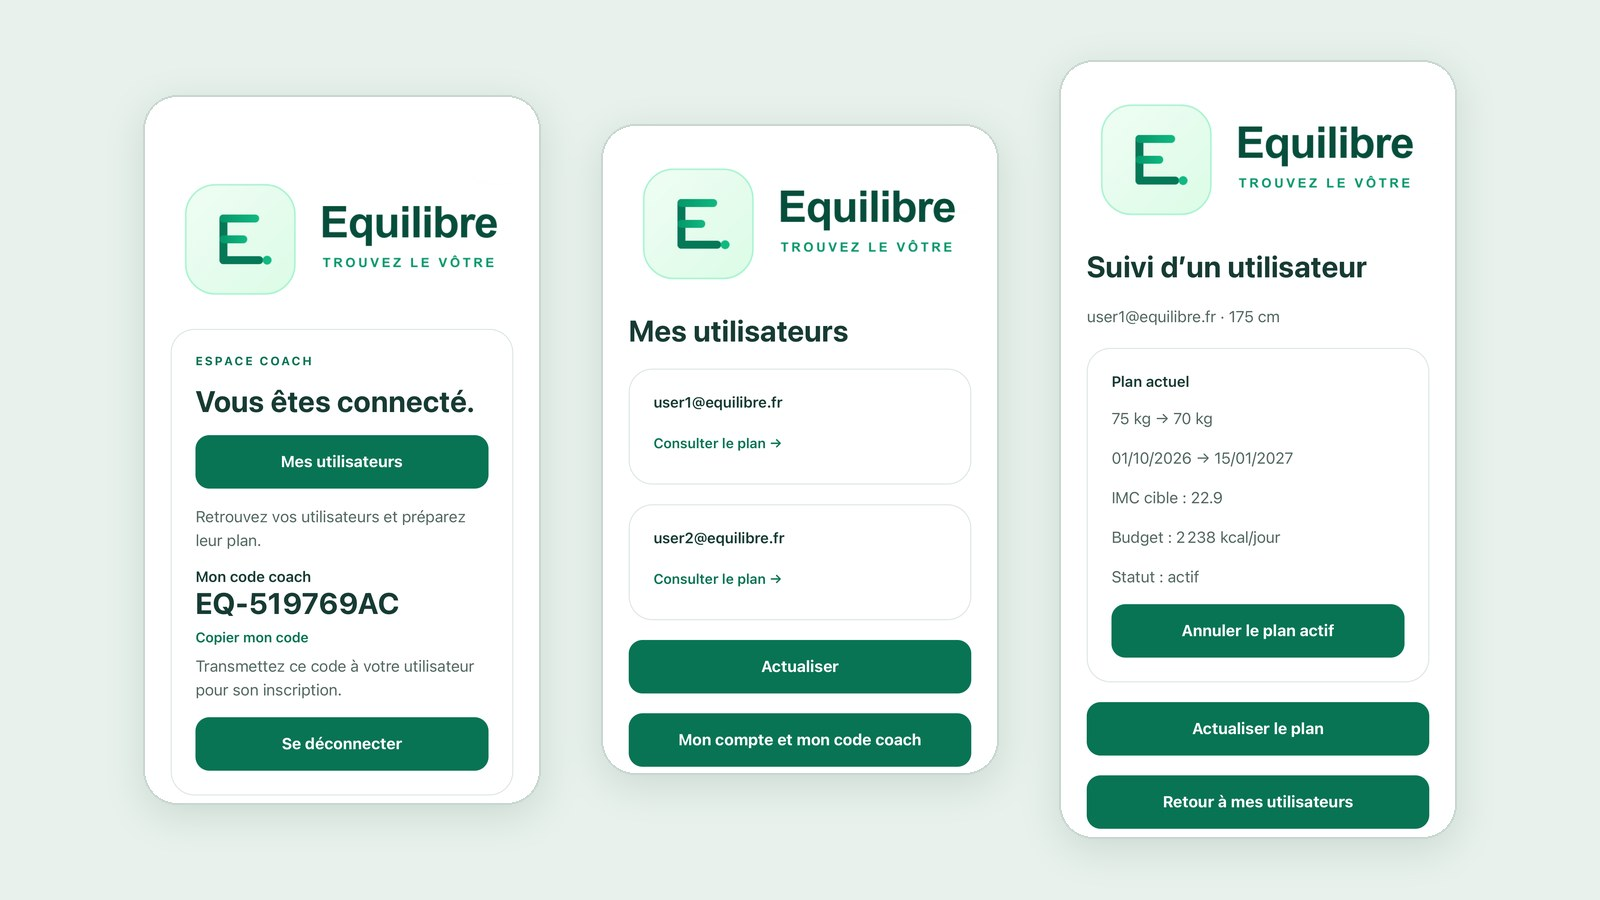
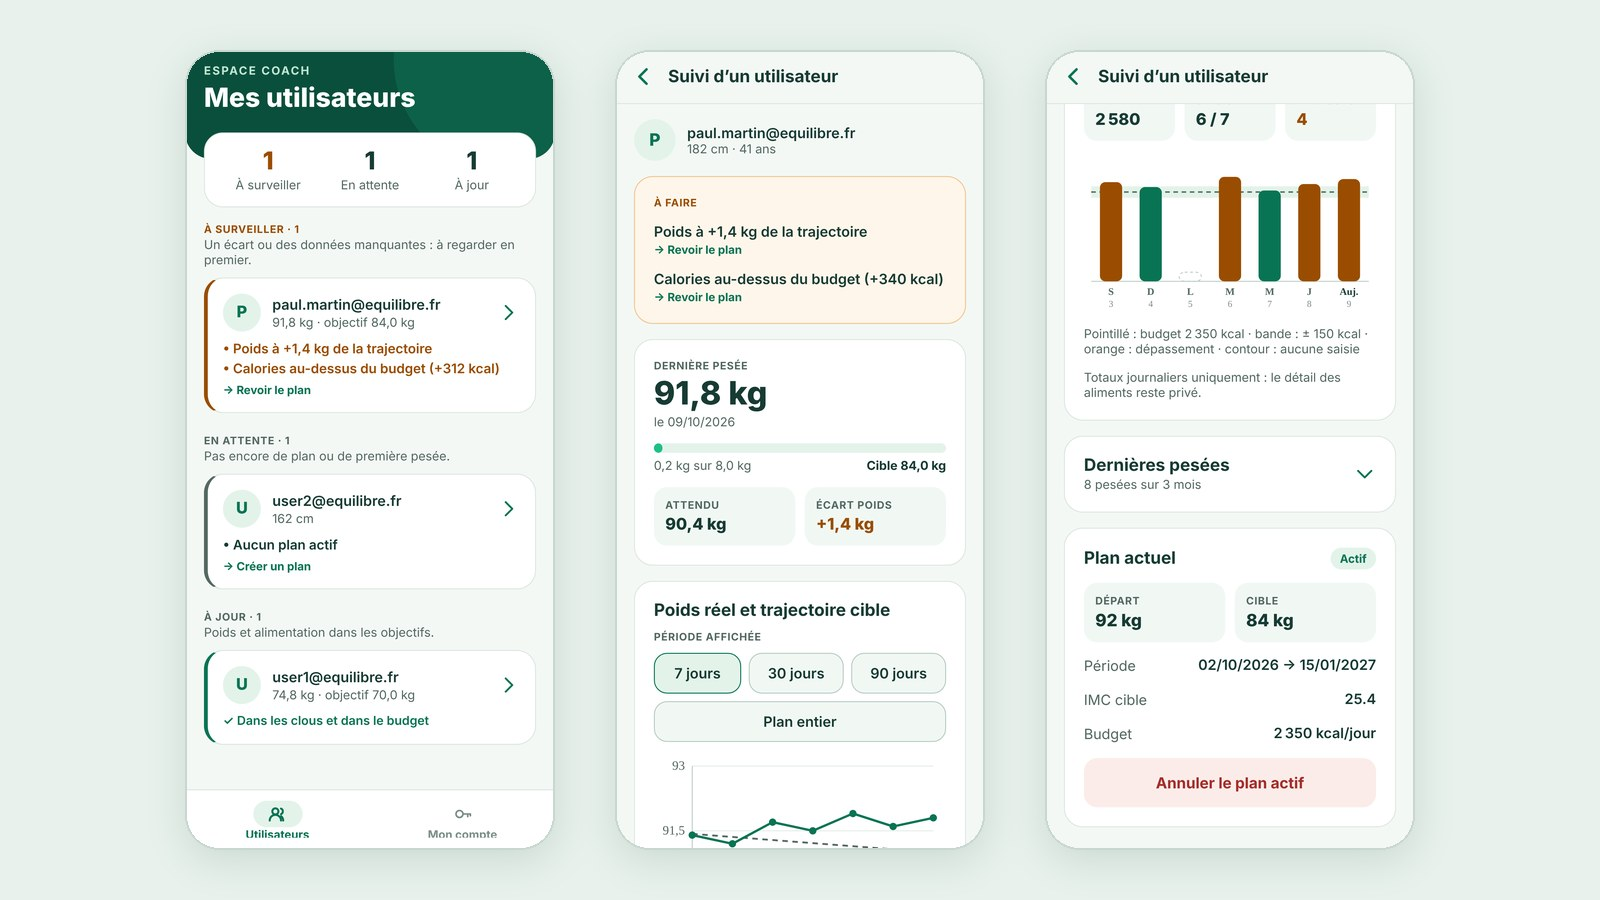
Equilibre : captures de la nouvelle interface

diff --git a/lib/projects.ts b/lib/projects.ts
@@ -41,9 +41,9 @@ export const projects: Project[] = [
         image: '/images/equilibre-logo.png',
         screenshots: [
             { url: '/images/equilibre-connexion.jpg', title: 'Connexion et profil', description: 'Connexion ou inscription avec le code du coach. Le profil (taille, âge, sexe) sert au calcul du plan et du budget calorique.', titleEn: 'Login and profile', descriptionEn: 'Log in or sign up with the coach’s code. The profile (height, age, sex) is used to compute the plan and calorie budget.' },
-            { url: '/images/equilibre-suivi-poids.jpg', title: 'Suivi du poids', description: 'Poids réel face à la trajectoire cible du plan, budget du jour et historique des pesées envoyées par la balance connectée simulée.', titleEn: 'Weight tracking', descriptionEn: 'Actual weight against the plan’s target trajectory, daily budget and history of readings sent by the simulated connected scale.' },
-            { url: '/images/equilibre-journal.jpg', title: 'Journal alimentaire', description: 'Calories restantes, cibles protéines / glucides / lipides et catalogue d’aliments par famille. Le journal fonctionne hors ligne et se synchronise avec l’API.', titleEn: 'Food diary', descriptionEn: 'Remaining calories, protein / carbs / fat targets and a food catalogue by family. The diary works offline and syncs with the API.' },
-            { url: '/images/equilibre-coach.jpg', title: 'Espace coach', description: 'Code coach à transmettre, liste des utilisateurs suivis et plan actif de chacun : poids cible, période, IMC cible et budget calorique.', titleEn: 'Coach space', descriptionEn: 'Coach code to share, list of followed users and each one’s active plan: target weight, period, target BMI and calorie budget.' },
+            { url: '/images/equilibre-suivi-poids.jpg', title: 'Suivi du poids', description: 'Dernière pesée, avancement vers la cible et écart à la trajectoire en une phrase ; courbe poids réel / trajectoire, budget du jour et historique des pesées de la balance connectée simulée.', titleEn: 'Weight tracking', descriptionEn: 'Latest weigh-in, progress towards the target and the gap to the trajectory in one sentence; actual weight vs. trajectory chart, daily budget and history of readings from the simulated connected scale.' },
+            { url: '/images/equilibre-journal.jpg', title: 'Journal alimentaire', description: 'Calories restantes, macros consommées face aux cibles, bibliothèque filtrable et ajout en deux appuis (portion usuelle pré-remplie, repas présélectionné). Fonctionne hors ligne, synchronisé avec l’API.', titleEn: 'Food diary', descriptionEn: 'Remaining calories, macros against targets, a filterable food library and two-tap logging (usual portion pre-filled, meal pre-selected). Works offline and syncs with the API.' },
+            { url: '/images/equilibre-coach.jpg', title: 'Suivi coach', description: 'Utilisateurs classés par priorité avec la raison et l’action proposée ; fiche avec encadré « À faire », courbe de poids et calories des 7 derniers jours face au budget (totaux uniquement).', titleEn: 'Coach follow-up', descriptionEn: 'Users ranked by priority with the reason and suggested action; a profile with a to-do box, weight chart and last 7 days of calories against the budget (daily totals only).' },
         ],
     },
     {
